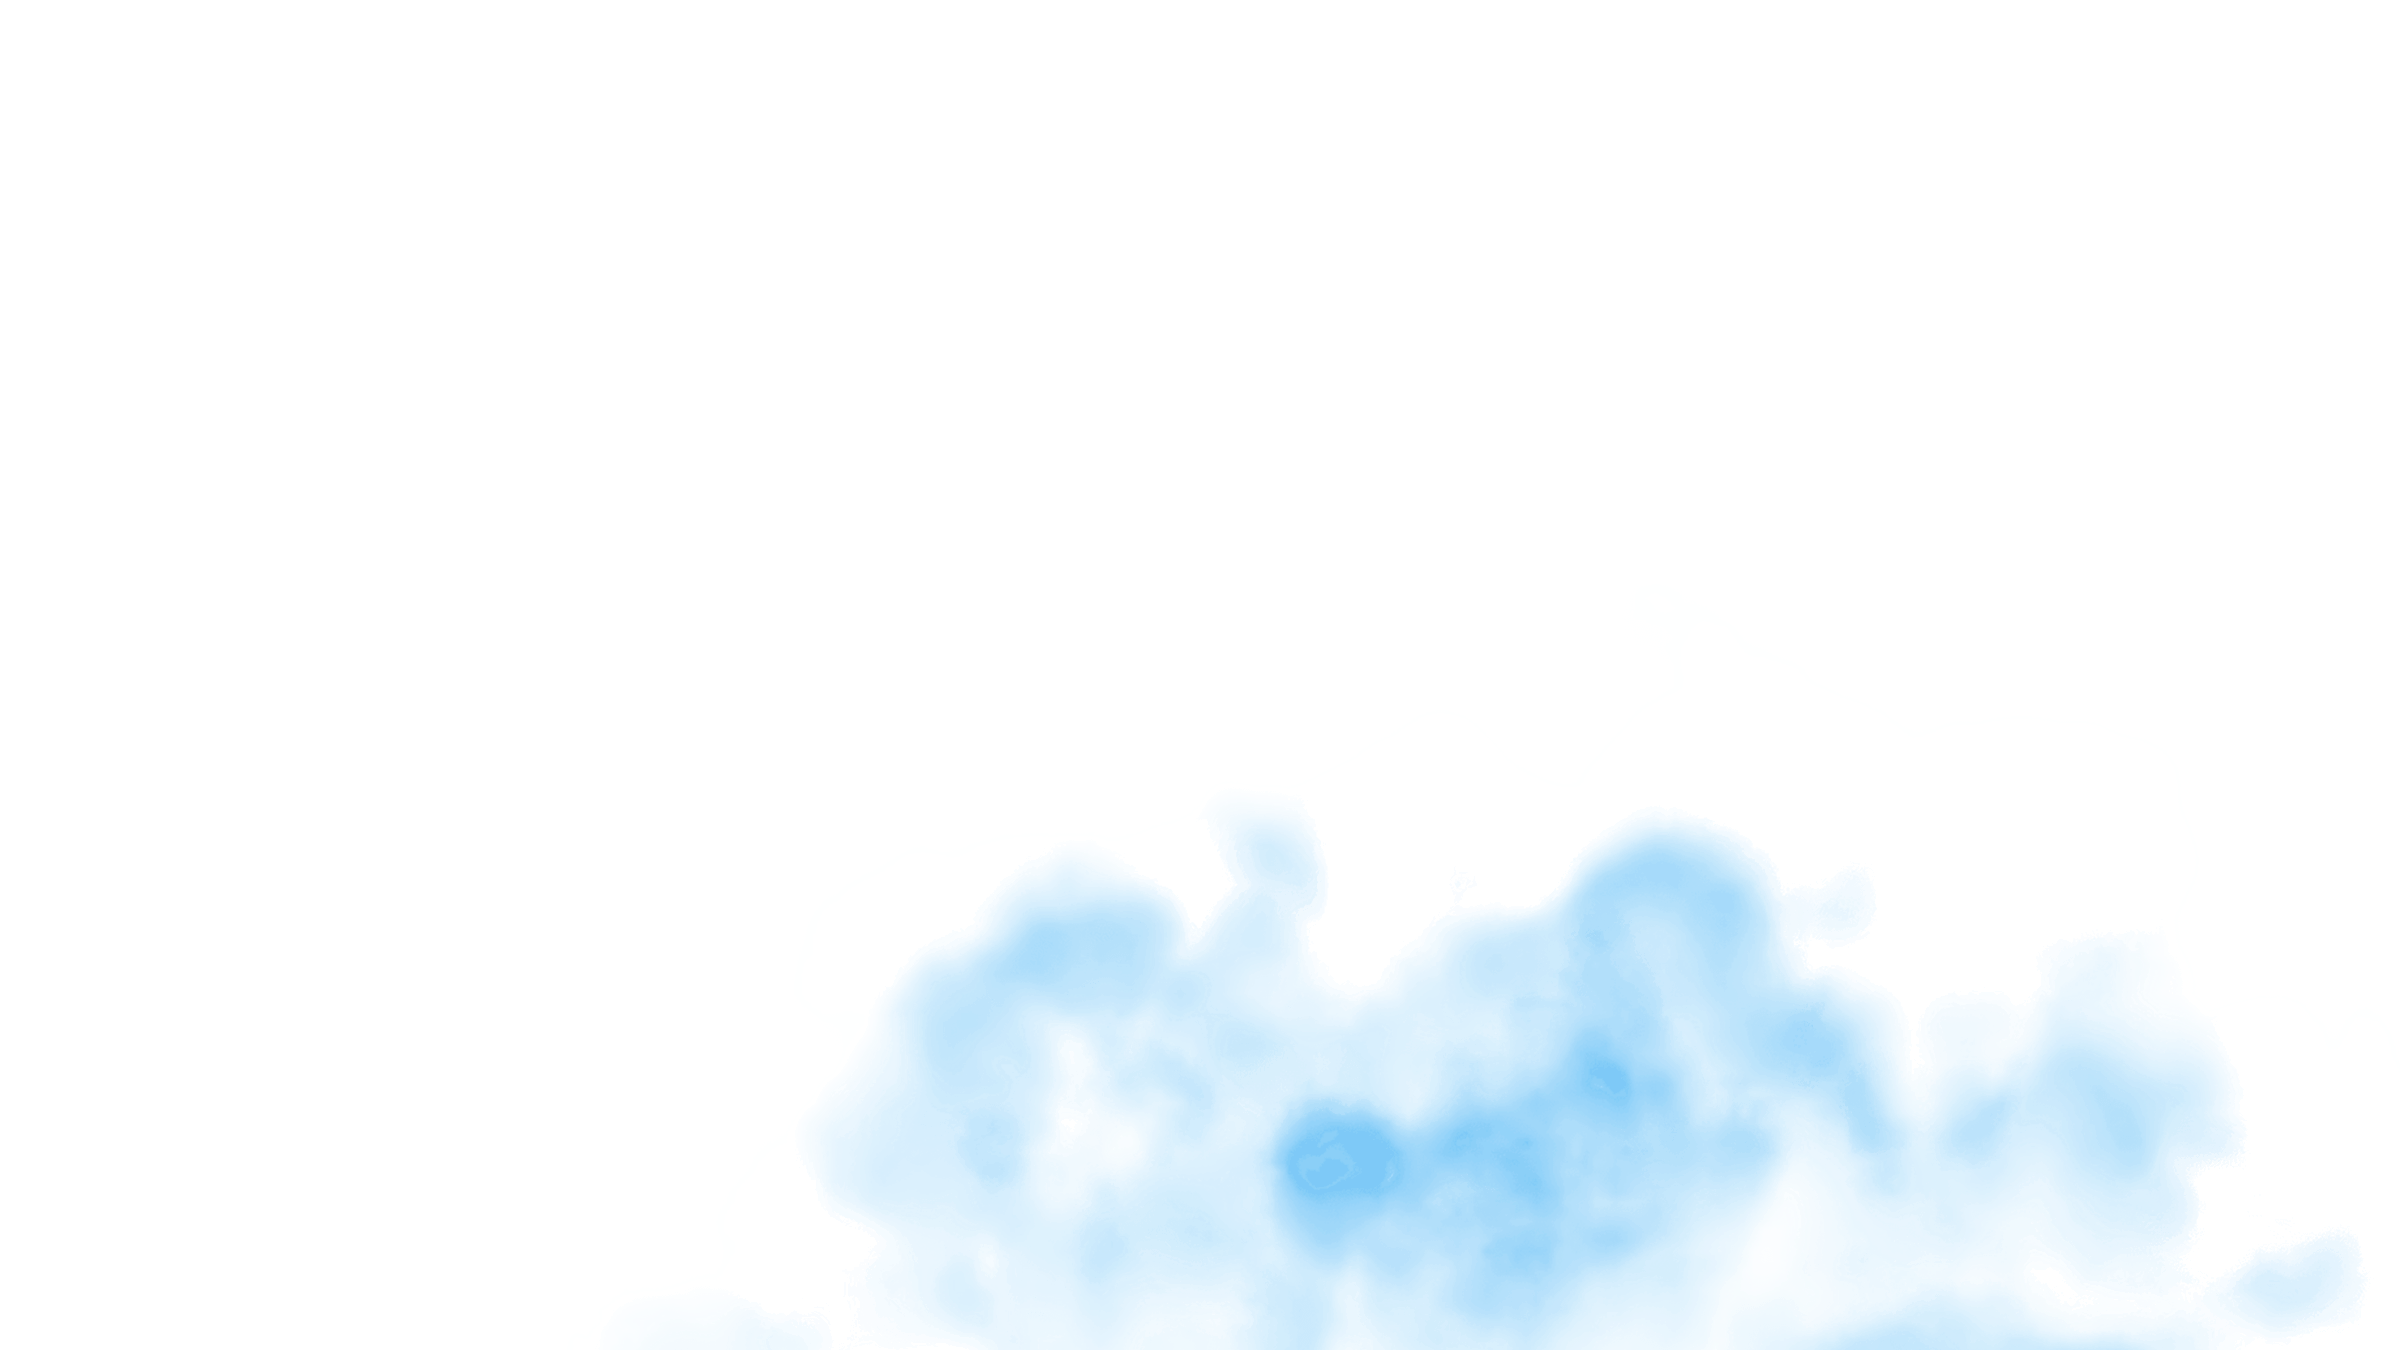
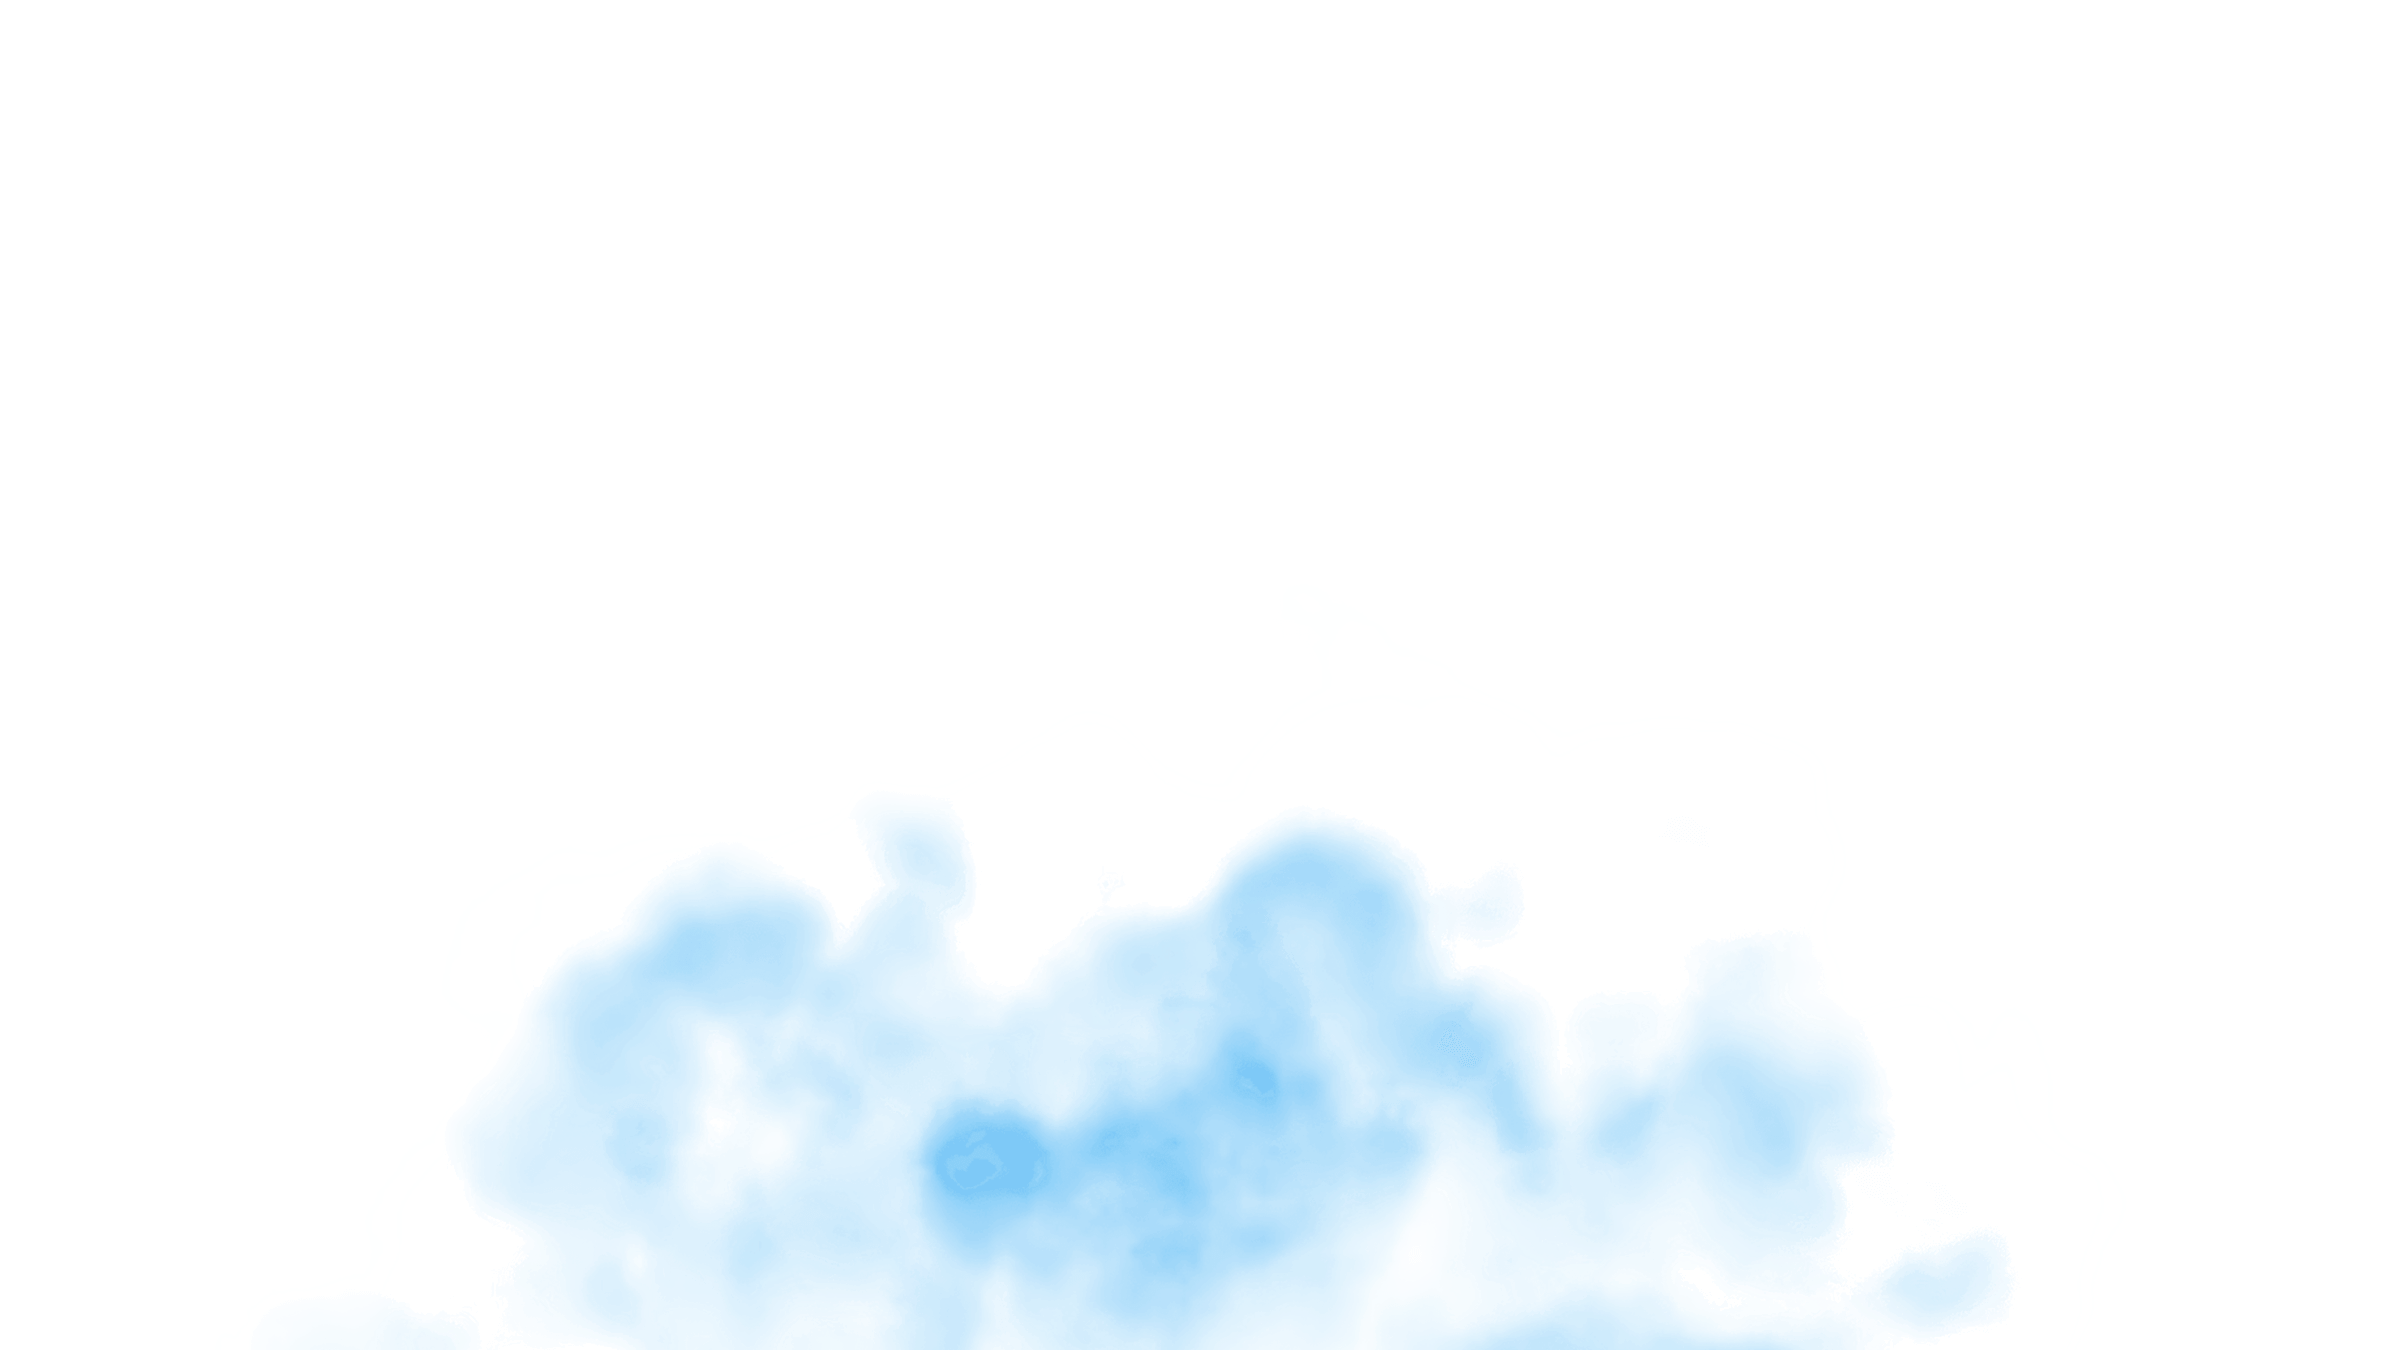
add animation

Changed region(s): [[0.1875, 0.5911, 0.9375, 1.0], [0.9375, 0.9333, 1.0, 0.9956]]

diff --git a/src/components/Preview/Preview.styled.js b/src/components/Preview/Preview.styled.js
@@ -1,4 +1,5 @@
 import styled from '@emotion/styled';
+import { css, keyframes } from '@emotion/react';
 import backClouds from '../../images/01_backclouds.jpg';
 import temple from '../../images/02_temple.png';
 import fog from '../../images/03_fog.png';
@@ -7,6 +8,15 @@ import treesRight from '../../images/05_right_trees.png';
 import treesLeft from '../../images/06_left_trees.png';
 import leaf from '../../images/07_leaf.png';
 import logo from '../../images/logo.png';
+
+const moveRightLeft = keyframes`
+  0% {
+    transform: translateX(-70%);
+  }
+  100% {
+    transform: translateX(50%);
+  }
+`;
 
 export const Layers = styled.section`
   perspective: 1000px;
@@ -38,13 +48,16 @@ export const Layer1 = styled(LayerItem)`
 `;
 
 export const Layer2 = styled(LayerItem)`
-  transform: translateZ(20px) scale(0.88);
+  transform: translateZ(0px) scale(1);
   background-image: url(${temple});
 `;
 
 export const Layer3 = styled(LayerItem)`
-  transform: translateZ(120px) scale(0.88);
+  transform: translateZ(120px) scale(1);
   background-image: url(${fog});
+  animation: ${css`
+    ${moveRightLeft} 30s linear infinite
+  `};
 `;
 
 export const Layer4 = styled(LayerItem)`
